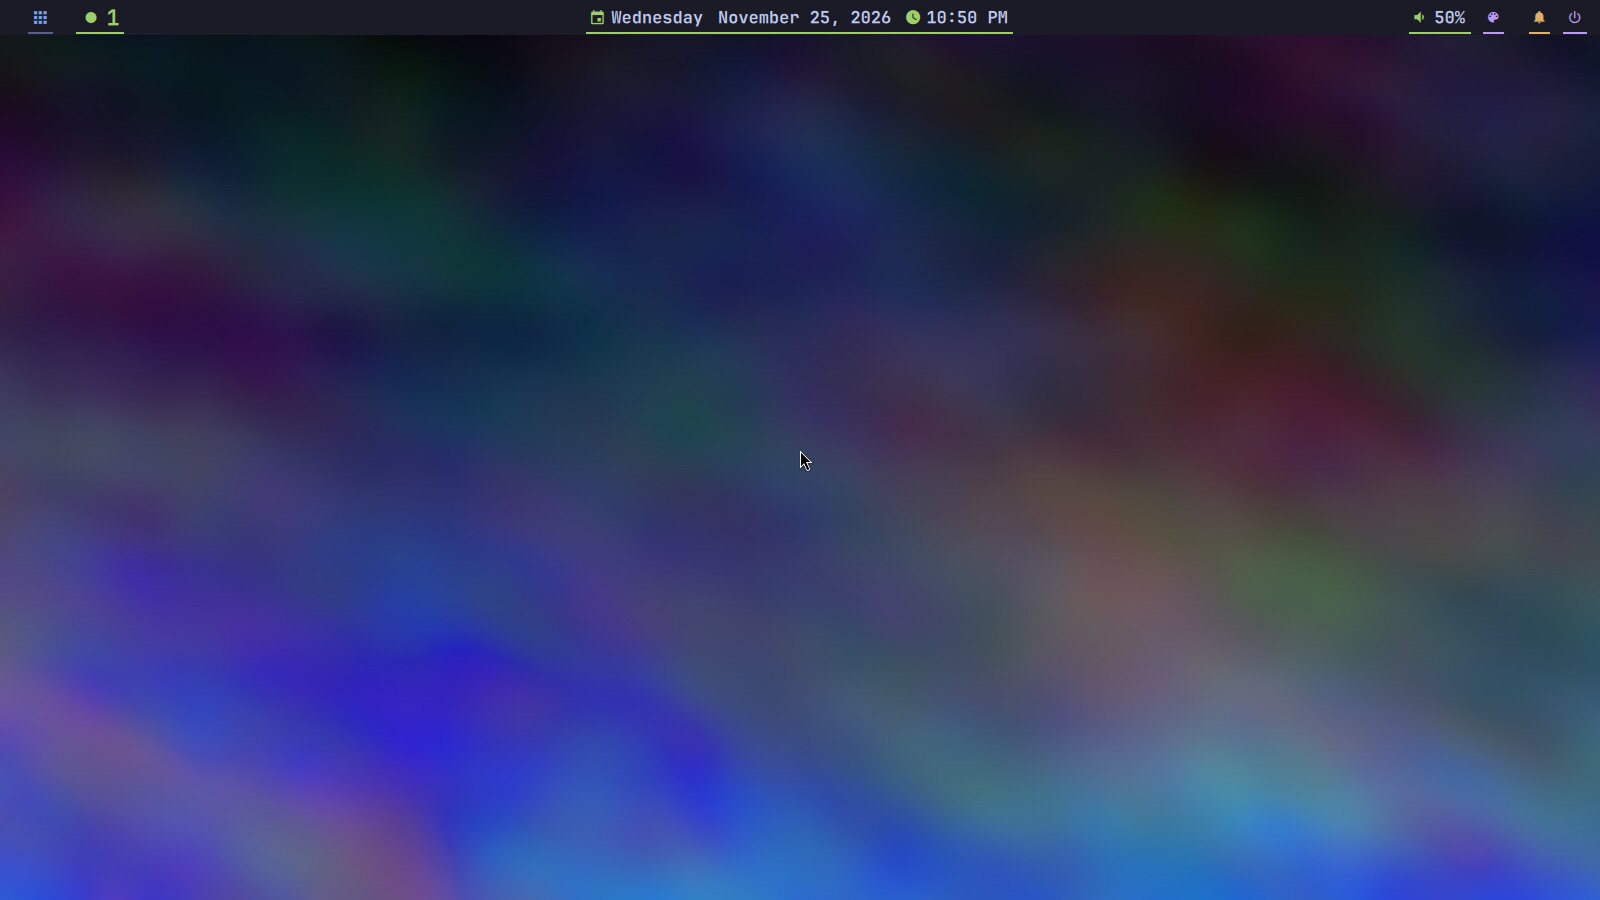
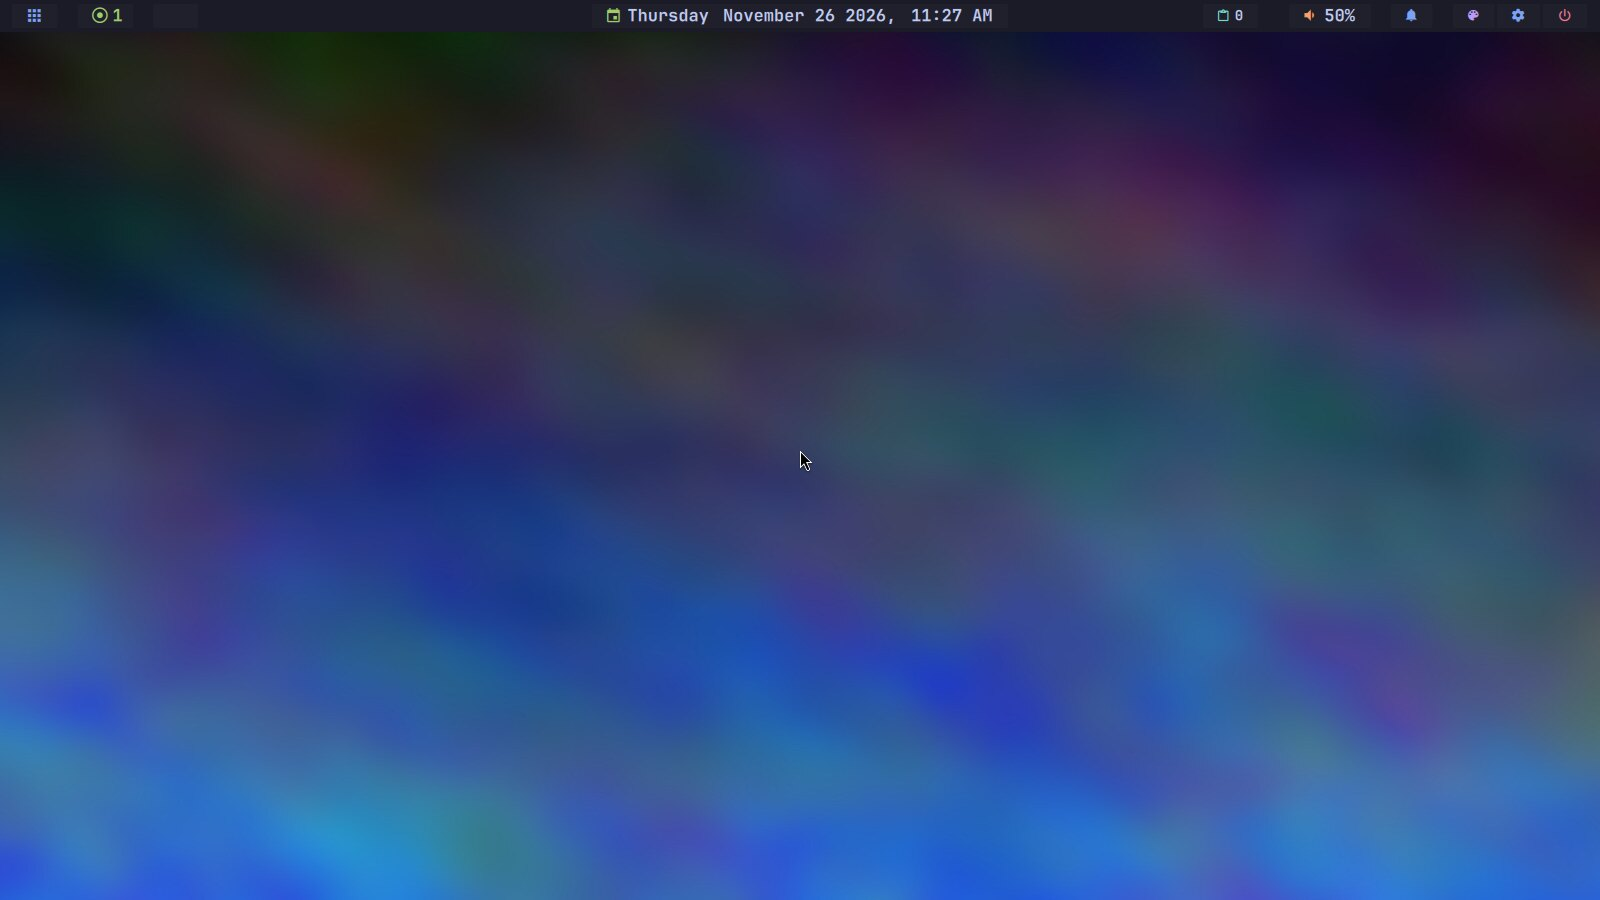
testing debian 2

diff --git a/services/Settings.qml b/services/Settings.qml
@@ -11,13 +11,37 @@ QtObject {
     id: root
 
     property string barPosition: "top"
-    property int barHeight: 35
-    // Deliberately minimal. The widgets that need configuring or a network
-    // before they say anything useful — updates, weather, media, cpu, memory —
-    // are off by default; they are one click away in Settings → Bar.
-    property var barLeft: ["separator", "menu", "separator", "workspaces", "separator", "windowTitle"]
-    property var barCenter: ["clock"]
-    property var barRight: ["audio", "separator", "themeSwitcher", "separator", "systemTray", "separator", "notifications", "separator", "power"]
+    property int barHeight: 32
+    // The stock bar: menu, workspaces, running apps and the window title on
+    // the left; the clock; clipboard, tray, media, volume, Control Center
+    // (notifications, network, Bluetooth, updates), themes, settings and power
+    // on the right. Widgets that need setting up first (weather, headset, …)
+    // are one click away in Settings → Bar → Widgets.
+    property var barLeft: [
+        {"type":"menu","style":"none"},
+        {"type":"separator","style":"none","glyph":"|","width":10,"hideGlyph":true},
+        {"type":"workspaces","style":"none","format":"{indicator} {index}","indicator":"","bold":true,"tagScale":1,"itemSpacing":10,"tagPadding":2,"underlineHeight":0,"focusedGlyph":"","visibleGlyph":"","otherGlyph":"","urgentGlyph":"","vacantMode":"inherit","scrollEnabled":false},
+        {"type":"separator","style":"none","color":"orange","glyph":"|","width":10,"hideGlyph":true},
+        {"type":"runningApps","style":"underline"},
+        {"type":"windowTitle","style":"none","color":"yellow","maxWidth":600,"prefix":""}
+    ]
+    property var barCenter: [
+        {"type":"clock","style":"none","color":"green","weekdayFormat":"dddd","dateFormat":"MMMM dd yyyy,","timeIcon":false,"timeFormat":"h:mm AP"}
+    ]
+    property var barRight: [
+        {"type":"clipboard","style":"none","color":"cyan"},
+        {"type":"separator","style":"none","color":"orange","glyph":"|","width":10,"hideGlyph":true},
+        {"type":"systemTray","style":"none"},
+        {"type":"separator","style":"none","color":"orange","glyph":"|","width":10,"hideGlyph":true},
+        {"type":"media","style":"none","visualizer":"both"},
+        {"type":"audio","style":"none","color":"orange"},
+        {"type":"separator","style":"none","color":"orange","glyph":"|","width":10,"hideGlyph":true},
+        {"type":"controlCenter","style":"none","showNetwork":false,"showNetworkName":false,"showBluetooth":false,"openOn":"notifications"},
+        {"type":"separator","style":"none","color":"orange","glyph":"|","width":10,"hideGlyph":true},
+        {"type":"themeSwitcher","style":"none"},
+        {"type":"settings","style":"none"},
+        {"type":"power","style":"none","color":"red"}
+    ]
     // Legacy secondary layout, used when importing existing monitor layouts.
     property var barSecondaryLeft: []
     property var barSecondaryCenter: []
@@ -27,6 +51,13 @@ QtObject {
     property string barLayoutMode: defaultBindings.barLayoutMode()
     property var barMonitorProfiles: ({})
     property var barPresets: []
+    /// The stock bar (this file's defaults) as a preset that can't be deleted
+    /// or overwritten, so a bar saved before the defaults changed can go back
+    /// to the current ones. Not stored in settings.json: it follows the shell.
+    readonly property string defaultBarPresetName: "Revenant default"
+    property var defaultBarProfile: ({})
+    readonly property var allBarPresets: [{ name: defaultBarPresetName, profile: defaultBarProfile, builtin: true }]
+        .concat(barPresets.filter(preset => preset.name !== defaultBarPresetName))
     property string preferredBarOutput: ""
     readonly property var barOutputs: Quickshell.screens.map(screen => screen.name).filter(name => name)
     readonly property string primaryBarOutput: Services.I3.primaryOutput || barOutputs[0] || ""
@@ -91,13 +122,13 @@ QtObject {
 
     function saveBarPreset(name, output) {
         name = name.trim();
-        if (!name || barPresets.some(preset => preset.name === name)) return false;
+        if (!name || allBarPresets.some(preset => preset.name === name)) return false;
         barPresets = barPresets.concat({ name: name, profile: barFor(output) });
         return true;
     }
 
     function applyBarPreset(name, output) {
-        const preset = barPresets.find(entry => entry.name === name);
+        const preset = allBarPresets.find(entry => entry.name === name);
         if (preset) setBarValues(output, preset.profile);
     }
 
@@ -105,7 +136,7 @@ QtObject {
     /// one, and in "each monitor its own" mode each monitor's. False if there
     /// is no preset of that name.
     function applyBarPresetTo(name, output) {
-        const preset = barPresets.find(entry => entry.name === name);
+        const preset = allBarPresets.find(entry => entry.name === name);
         if (!preset) return false;
         if (output && output !== "*") {
             setBarValues(barLayoutMode === "separate" ? output : "", preset.profile);
@@ -141,14 +172,14 @@ QtObject {
     /// "polybar": plain text + | separators + each widget's own underline/box
     /// (the original look). "pills" | "segments" | "flat": Dux styles, drawn
     /// by components/WidgetSurface.qml around every widget.
-    property string barWidgetStyle: "polybar"
-    property int barPillRadius: 10
+    property string barWidgetStyle: "segments"
+    property int barPillRadius: 2
     /// Horizontal padding inside a pill / segment.
     property int barPillPadding: 10
     /// Gap between pills (and between segment runs) in the Dux styles.
-    property int barWidgetGap: 6
+    property int barWidgetGap: 10
     /// How strongly the pill surface is tinted toward the foreground (0–40 %).
-    property int barPillTint: 12
+    property int barPillTint: 3
 
     /// Default icon set for widgets whose own iconSet is "auto":
     /// "nerd" (Nerd Font glyphs) | "material" (Material Symbols / Icons) | "emoji".
@@ -515,6 +546,10 @@ QtObject {
         for (const p in schema)
             defaults[p] = JSON.stringify(root[p]);
         internal.defaults = defaults;
+        const stock = {};
+        for (const key in barOptionProps)
+            stock[key] = JSON.parse(defaults[barOptionProps[key]]);
+        defaultBarProfile = stock;
         // Every setting saves the same way, so wire the change signals in a
         // loop rather than writing eighteen identical handlers.
         for (const p in schema)

diff --git a/panels/settings/pages/BarWidgetsPage.qml b/panels/settings/pages/BarWidgetsPage.qml
@@ -237,16 +237,16 @@ Flickable {
             id: presetsCard
             x: 24
             width: col.width - 48
-            title: "Saved layouts"
-            description: "Save the bar as it is now — its widgets and look — so you can come back to it after experimenting."
+            title: "Layouts"
+            description: "Save the bar as it is now — its widgets and look — so you can come back to it after experimenting. \"" + Services.Settings.defaultBarPresetName + "\" is the stock bar."
 
-            readonly property var names: Services.Settings.barPresets.map(preset => preset.name)
+            readonly property var names: Services.Settings.allBarPresets.map(preset => preset.name)
             property string selectedName: ""
             readonly property string presetName: names.includes(selectedName) ? selectedName : names[0] ?? ""
 
             SettingsUi.OptionRow {
                 visible: presetsCard.names.length > 0
-                title: "Your layouts"
+                title: "Pick a layout"
                 Column {
                     width: parent.width
                     spacing: 8
@@ -266,6 +266,7 @@ Flickable {
                             onClicked: Services.Settings.applyBarPreset(presetsCard.presetName, root.layoutTarget)
                         }
                         Components.TextButton {
+                            visible: presetsCard.presetName !== Services.Settings.defaultBarPresetName
                             text: "Delete it"
                             onClicked: Services.Settings.deleteBarPreset(presetsCard.presetName)
                         }

diff --git a/tests/themepresets.qml b/tests/themepresets.qml
@@ -122,6 +122,19 @@ ShellRoot {
             Services.Theme.applyPreset("night-drive");
             check(S.barHeight === 33, "applying the preset puts that bar back");
             check(!S.applyBarPresetTo("Nope", "*"), "an unknown bar preset is refused");
+            // The stock bar is always there as a preset, and stays the stock bar.
+            check(S.allBarPresets[0]?.name === S.defaultBarPresetName && S.allBarPresets[0].builtin,
+                  "the stock bar is listed first as a built-in preset");
+            check(!S.saveBarPreset(S.defaultBarPresetName, ""), "its name can't be saved over");
+            S.deleteBarPreset(S.defaultBarPresetName);
+            check(S.allBarPresets.some(b => b.name === S.defaultBarPresetName), "and it can't be deleted");
+            S.barHeight = 21;
+            S.barWidgetStyle = "polybar";
+            check(S.applyBarPresetTo(S.defaultBarPresetName, "*"), "it applies like any preset");
+            check(S.barHeight === S.defaultBarProfile.height && S.barWidgetStyle === S.defaultBarProfile.widgetStyle
+                  && S.barRight.map(w => w.type).join() === S.defaultBarProfile.right.map(w => w.type).join(),
+                  "and brings back the stock height, style and widgets");
+            check(!S.barPresets.some(b => b.name === S.defaultBarPresetName), "without being saved to settings.json");
             S.setThemePresetBar("night-drive", "", "*");
             check(S.themePresets[0].bar === undefined, "and it can be cleared");
 

diff --git a/panels/settings/pages/ThemePage.qml b/panels/settings/pages/ThemePage.qml
@@ -229,7 +229,7 @@ SettingsUi.SettingsPage {
                     readonly property string barOutput: presetRow.modelData.bar?.output ?? "*"
                     readonly property bool perMonitor: Services.Settings.barLayoutMode === "separate"
                     readonly property bool missing: barPreset !== ""
-                        && !Services.Settings.barPresets.some(b => b.name === barPreset)
+                        && !Services.Settings.allBarPresets.some(b => b.name === barPreset)
                     anchors.top: applyArea.bottom
                     anchors.topMargin: 4
                     anchors.left: parent.left
@@ -249,7 +249,7 @@ SettingsUi.SettingsPage {
                         Layout.alignment: Qt.AlignTop
                         labelWidth: 0
                         placeholder: "Keep the bar as it is"
-                        model: [""].concat(Services.Settings.barPresets.map(b => b.name))
+                        model: [""].concat(Services.Settings.allBarPresets.map(b => b.name))
                             .concat(barRow.missing ? [barRow.barPreset] : [])
                         labels: barRow.missing ? { "": "Keep the bar as it is", [barRow.barPreset]: barRow.barPreset + " (deleted)" }
                                                : { "": "Keep the bar as it is" }

diff --git a/README.md b/README.md
@@ -70,6 +70,16 @@ git clone @REPO_URL@ ~/Projects/revenant
 ~/Projects/revenant/install.sh          # --dry-run first to see what it would do
 ```
 
+> [!WARNING]
+> **Debian 13 (trixie): the installer enables `trixie-backports`.** Quickshell
+> is only packaged there, so it adds
+> `/etc/apt/sources.list.d/trixie-backports.list` (after asking). Backports
+> never replace a package on their own, but the install takes the
+> packages it asks for from backports where they're newer, so PipeWire
+> comes from backports too (Quickshell needs its newer library). Answer
+> *no* to keep backports off; the shell can't be installed from
+> packages then. To undo it later, delete that file and run `sudo apt update`.
+
 `install.sh` asks before each step, and running it again changes nothing:
 1. packages, with `sudo`. On Debian/Ubuntu it sets up a fresh system
    completely: it enables Debian's backports (Quickshell is only there on
